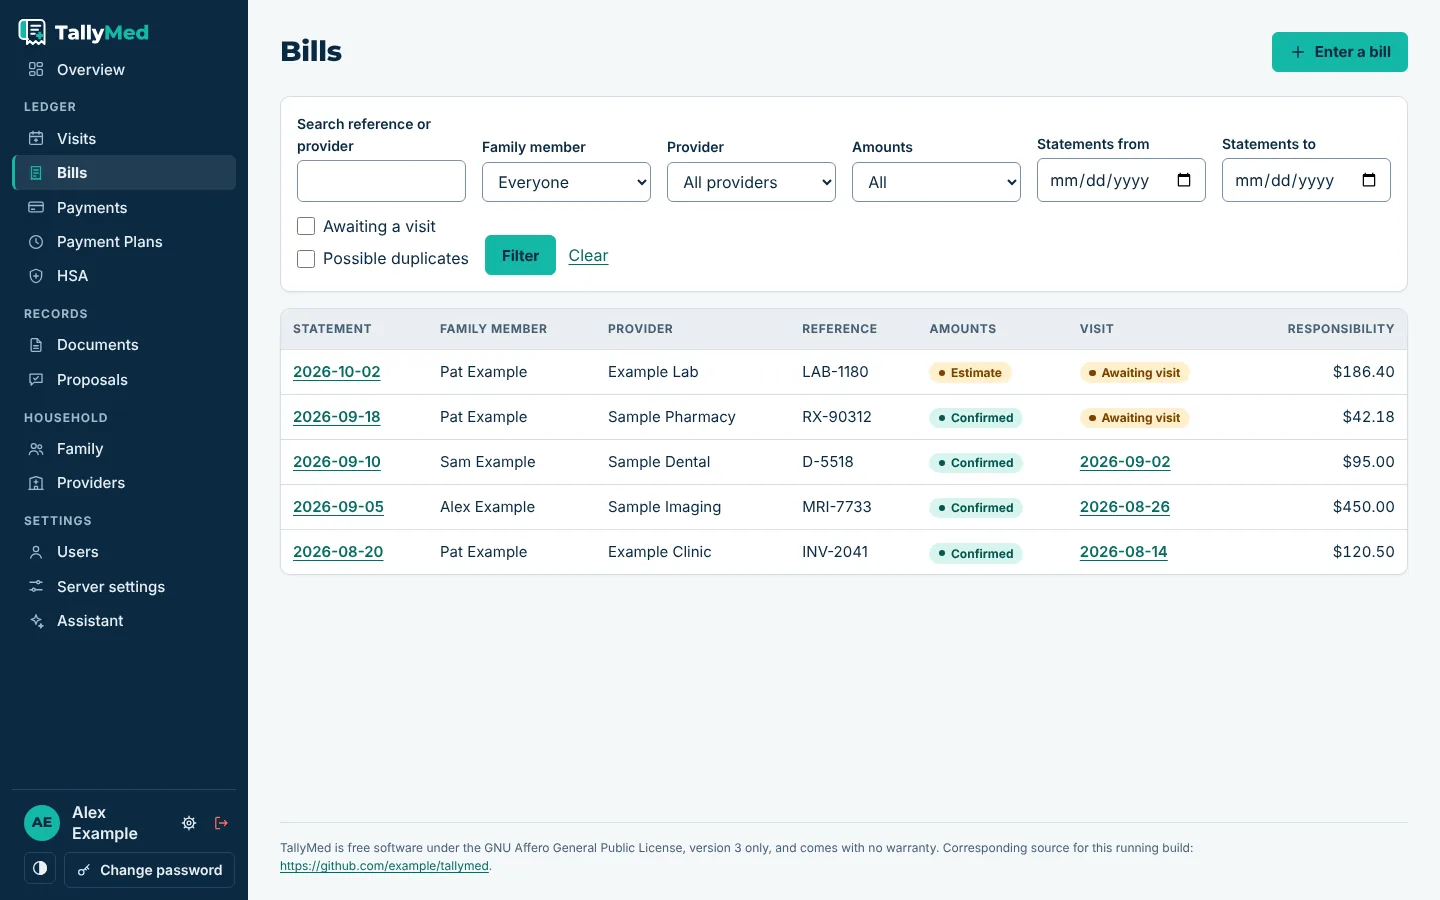
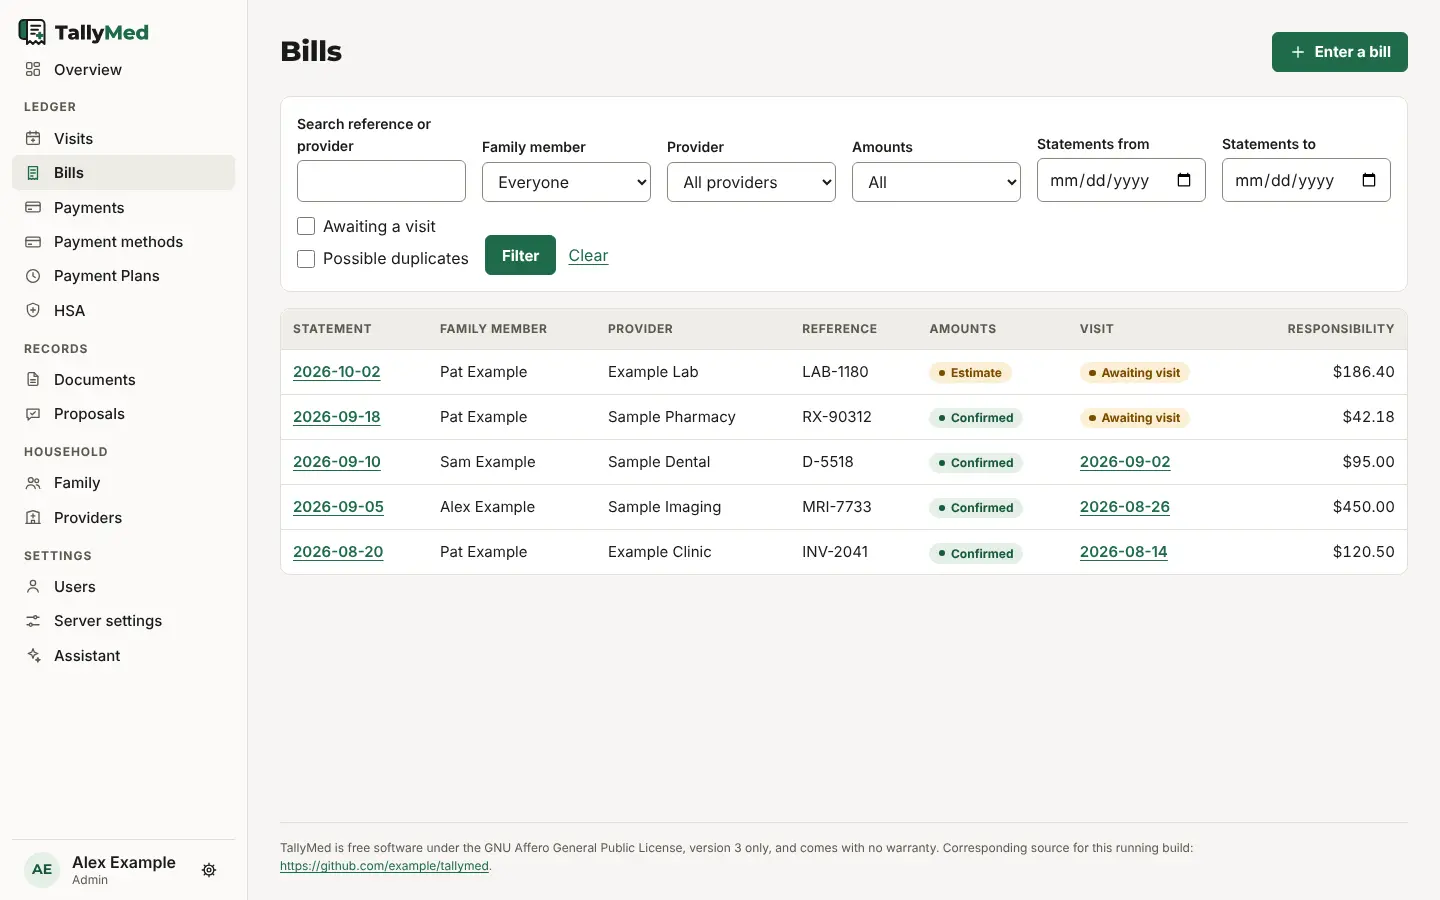
Overview redesign, Needs attention list, quiet sidebar and regenerated site screenshots
- Overview: compact filters, three key figures (open balance with share-paid bar,
  upcoming and overdue installments), Needs attention, then HSA breakdown chart and
  other figures in smaller cards. Uses only figures the services already return.
- NeedsAttention renders only when something needs action: item, reason and a text
  importance level (Critical, Normal, Low).
- Sidebar is a paper or charcoal panel with no coloured edge; cards lose coloured
  top edges.
- capture-site-screenshots.mjs follows the current setup (PIN) and plan forms; the
  eight marketing screenshots and the dashboard alt text are regenerated.

Claude-Session: https://claude.ai/code/session_01FMr4CgbvstSKq3XfQZ7Zma

diff --git a/apps/web/app/(app)/page.tsx b/apps/web/app/(app)/page.tsx
@@ -85,8 +85,8 @@ export default async function Overview({ searchParams }: { searchParams: SearchP
             ? <div className="stack-bar" aria-hidden="true">{hsaParts.map((part) => BigInt(part.cents) > 0n && <span key={part.key} className={`seg seg-${part.key}`} style={{ flexGrow: Number(BigInt(part.cents) * 1000n / hsaTotal) || 1 }} />)}</div>
             : <p className="muted">No HSA amounts in this view yet.</p>}
           <ul className="figure-list">
-            {hsaParts.map((part) => <li key={part.key}><Link href={hsaLink(part.key)}><span className={`swatch seg-${part.key}`} aria-hidden="true" /><span className="fig-label">{part.label}<span className="fig-note">{part.note}</span></span><span className="fig-value"><Money cents={part.cents} /></span></Link></li>)}
-            <li className={BigInt(hsaTotals.needsReviewCents) > 0n ? 'is-warn' : undefined}><Link href={hsaLink('needs_review')}><span className="swatch" aria-hidden="true" /><span className="fig-label">HSA needs review<span className="fig-note">{plural(hsaTotals.needsReviewCount, 'payment above its ceiling', 'payments above their ceiling')}</span></span><span className="fig-value"><Money cents={hsaTotals.needsReviewCents} /></span></Link></li>
+            {hsaParts.map((part) => <li key={part.key}><Link href={hsaLink(part.key)}><span className={`swatch seg-${part.key}`} aria-hidden="true" /><span className="fig-label">{part.label}</span><span className="fig-value"><Money cents={part.cents} /></span><span className="fig-note">{part.note}</span></Link></li>)}
+            <li className={BigInt(hsaTotals.needsReviewCents) > 0n ? 'is-warn' : undefined}><Link href={hsaLink('needs_review')}><span className="swatch" aria-hidden="true" /><span className="fig-label">HSA needs review</span><span className="fig-value"><Money cents={hsaTotals.needsReviewCents} /></span><span className="fig-note">{plural(hsaTotals.needsReviewCount, 'payment above its ceiling', 'payments above their ceiling')}</span></Link></li>
           </ul>
           {hsaQueue.available.length > 0 && <>
             <h3>Ready to claim</h3>
@@ -96,11 +96,11 @@ export default async function Overview({ searchParams }: { searchParams: SearchP
         <section className="card compact" aria-labelledby="sec-more">
           <h2 id="sec-more">Other figures</h2>
           <ul className="figure-list">
-            <li><Link href={filter({ status: 'confirmed' })}><span className="fig-label">Confirmed responsibility<span className="fig-note">{plural(t.confirmedCount, 'bill', 'bills')}, after adjustments</span></span><span className="fig-value"><Money cents={t.confirmedResponsibilityCents} /></span></Link></li>
-            <li><Link href={filter({ status: 'estimate' })}><span className="fig-label">Estimated, not confirmed<span className="fig-note">{plural(t.estimateCount, 'estimate', 'estimates')}, kept separate</span></span><span className="fig-value"><Money cents={t.estimatedResponsibilityCents} /></span></Link></li>
-            <li><Link href="/payments?unapplied=yes"><span className="fig-label">Unapplied cash<span className="fig-note">Paid but not applied to a bill · all family</span></span><span className="fig-value"><Money cents={cash.unappliedCents} /></span></Link></li>
-            {BigInt(t.confirmedCreditCents) > 0n && <li><Link href={filter({ status: 'confirmed' })}><span className="fig-label">Provider credits<span className="fig-note">Payments applied above responsibility</span></span><span className="fig-value"><Money cents={t.confirmedCreditCents} /></span></Link></li>}
-            <li><Link href={filter({ awaitingVisit: 'yes' })}><span className="fig-label">Bills awaiting a visit<span className="fig-note">Not linked to a visit yet</span></span><span className="fig-value num">{t.awaitingVisitCount}</span></Link></li>
+            <li><Link href={filter({ status: 'confirmed' })}><span className="fig-label">Confirmed responsibility</span><span className="fig-value"><Money cents={t.confirmedResponsibilityCents} /></span><span className="fig-note">{plural(t.confirmedCount, 'bill', 'bills')}, after adjustments</span></Link></li>
+            <li><Link href={filter({ status: 'estimate' })}><span className="fig-label">Estimated, not confirmed</span><span className="fig-value"><Money cents={t.estimatedResponsibilityCents} /></span><span className="fig-note">{plural(t.estimateCount, 'estimate', 'estimates')}, kept separate</span></Link></li>
+            <li><Link href="/payments?unapplied=yes"><span className="fig-label">Unapplied cash</span><span className="fig-value"><Money cents={cash.unappliedCents} /></span><span className="fig-note">Paid but not applied to a bill · all family</span></Link></li>
+            {BigInt(t.confirmedCreditCents) > 0n && <li><Link href={filter({ status: 'confirmed' })}><span className="fig-label">Provider credits</span><span className="fig-value"><Money cents={t.confirmedCreditCents} /></span><span className="fig-note">Payments applied above responsibility</span></Link></li>}
+            <li><Link href={filter({ awaitingVisit: 'yes' })}><span className="fig-label">Bills awaiting a visit</span><span className="fig-value num">{t.awaitingVisitCount}</span><span className="fig-note">Not linked to a visit yet</span></Link></li>
           </ul>
         </section>
       </div>

diff --git a/apps/web/app/globals.css b/apps/web/app/globals.css
@@ -254,9 +254,9 @@ ul.rows li > a:first-child { flex: 1 1 12rem; font-weight: 500; }
 .metrics strong { display: block; font-family: var(--font-display); font-size: 1.5rem; font-weight: 700; letter-spacing: -.01em; line-height: 1.25; }
 .metrics strong .num { text-align: left; }
 .metrics .muted { font-size: var(--text-xs); line-height: 1.4; }
-.metrics .card.accent { box-shadow: inset 0 3px 0 var(--accent); }
-.metrics .card.warn { box-shadow: inset 0 3px 0 var(--warn-line); }
-.metrics .card[role="note"] { border-left-width: 1px; box-shadow: inset 0 3px 0 var(--warn-line); }
+.metrics .card.accent { border-color: var(--line-strong); }
+.metrics .card.warn { border-color: var(--warn-line); }
+.metrics .card[role="note"] { border-color: var(--warn-line); }
 
 /* ---------- Overview ---------- */
 /* Three key figures, then the action list (only when something needs a person), then smaller secondary figures. */
@@ -268,8 +268,8 @@ ul.rows li > a:first-child { flex: 1 1 12rem; font-weight: 500; }
 .key-figures { display: grid; grid-template-columns: repeat(auto-fit, minmax(min(100%, 16rem), 1fr)); gap: var(--space-4); margin: var(--space-5) 0 var(--space-5); }
 .key-figure { display: flex; flex-direction: column; gap: var(--space-2); padding: var(--space-5); background: var(--surface); border: 1px solid var(--line); border-radius: var(--radius-lg); color: inherit; text-decoration: none; transition: border-color .15s ease; }
 .key-figure:hover { border-color: var(--line-strong); }
-.key-figure.primary { box-shadow: inset 0 3px 0 var(--accent); }
-.key-figure.warn { box-shadow: inset 0 3px 0 var(--warn-line); }
+.key-figure.primary { border-color: var(--line-strong); }
+.key-figure.warn { border-color: var(--warn-line); }
 .key-label { font-size: var(--text-sm); font-weight: 600; color: var(--fg-muted); }
 .key-figure strong { font-family: var(--font-display); font-size: clamp(1.75rem, 1.4rem + 1.2vw, 2.375rem); font-weight: 700; letter-spacing: -.02em; line-height: 1.1; color: var(--fg); }
 .key-figure strong .num { text-align: left; }
@@ -306,18 +306,18 @@ ul.rows li > a:first-child { flex: 1 1 12rem; font-weight: 500; }
 .card.compact h3 { font-size: var(--text-sm); color: var(--fg-muted); margin: var(--space-4) 0 var(--space-1); }
 .stack-bar { display: flex; gap: 2px; height: .625rem; margin: 0 0 var(--space-3); border-radius: var(--radius-pill); overflow: hidden; background: var(--surface); }
 .stack-bar .seg { flex-basis: 0; min-width: 4px; }
-.seg-available { background: var(--chart-1); }
-.seg-pending { background: var(--chart-2); }
-.seg-received { background: var(--chart-3); }
+.seg-available, .swatch.seg-available { background: var(--chart-1); }
+.seg-pending, .swatch.seg-pending { background: var(--chart-2); }
+.seg-received, .swatch.seg-received { background: var(--chart-3); }
 .card ul.figure-list { margin: 0; }
 .card .figure-list li { padding: 0; border-top: 1px solid var(--line); }
 .card .figure-list li:first-child { border-top: 0; padding-top: 0; }
-.figure-list a { display: flex; align-items: center; gap: var(--space-3); padding: var(--space-2) 0; color: inherit; text-decoration: none; }
+.figure-list a { display: grid; grid-template-columns: auto minmax(0, 1fr) auto; grid-template-areas: "sw label value" "sw note value"; align-items: center; column-gap: 0; padding: var(--space-2) 0; color: inherit; text-decoration: none; }
 .figure-list a:hover .fig-label { text-decoration: underline; text-underline-offset: .18em; }
-.swatch { flex: none; width: .625rem; height: .625rem; border-radius: 2px; background: transparent; }
-.fig-label { flex: 1; min-width: 0; font-size: var(--text-sm); font-weight: 600; }
-.fig-note { display: block; font-size: var(--text-xs); font-weight: 400; color: var(--fg-muted); }
-.fig-value { flex: none; font-family: var(--font-display); font-weight: 600; font-size: var(--text-md); font-variant-numeric: tabular-nums; }
+.swatch { grid-area: sw; width: .625rem; height: .625rem; margin-right: var(--space-3); border-radius: 2px; background: transparent; }
+.fig-label { grid-area: label; min-width: 0; font-size: var(--text-sm); font-weight: 600; }
+.fig-note { grid-area: note; min-width: 0; font-size: var(--text-xs); font-weight: 400; color: var(--fg-muted); }
+.fig-value { grid-area: value; padding-left: var(--space-3); font-family: var(--font-display); font-weight: 600; font-size: var(--text-md); font-variant-numeric: tabular-nums; }
 .figure-list li.is-warn .fig-value { color: var(--warn-fg); }
 .figure-list li.is-warn .swatch { background: var(--warn-line); border-radius: 50%; }
 .card ul.rows.small li { font-size: var(--text-sm); padding-block: var(--space-2); }

diff --git a/apps/marketing/lib/screens.ts b/apps/marketing/lib/screens.ts
@@ -4,8 +4,8 @@ export const screenSize = { width: 1440, height: 900 } as const;
 export const screens = [
   {
     id: 'dashboard', label: 'Dashboard', file: 'overview',
-    caption: 'The overview shows household responsibility, open balances, overdue installments and HSA totals at a glance.',
-    alt: { light: 'TallyMed overview in the light theme: cards for confirmed responsibility, open balance, overdue and upcoming installments and HSA amounts, with a navigation sidebar on the left.', dark: 'TallyMed overview in the dark theme: cards for confirmed responsibility, open balance, overdue and upcoming installments and HSA amounts, with a navigation sidebar on the left.' },
+    caption: 'The overview leads with the open balance and upcoming and overdue installments, and lists only what needs attention, each with a reason and an importance level.',
+    alt: { light: 'TallyMed overview in the light theme: large figures for the open balance with a share-paid bar, upcoming installments and overdue installments, then a Needs attention list marking one overdue installment Critical and three bills Normal, with a navigation sidebar on the left.', dark: 'TallyMed overview in the dark theme: large figures for the open balance with a share-paid bar, upcoming installments and overdue installments, then a Needs attention list marking one overdue installment Critical and three bills Normal, with a navigation sidebar on the left.' },
   },
   {
     id: 'bills', label: 'Bills', file: 'bills',

diff --git a/.project/DECISIONS.md b/.project/DECISIONS.md
@@ -203,7 +203,7 @@ The owner found the overview cluttered and the blue palette with the turquoise s
 - **Palette ("Ink and Forest").** Ink `#1A1A18` and warm neutrals for text and surfaces, one forest green accent (`#1F6B4A` light, sprout `#74C69B` dark), amber and red for status only. Navy, teal and mist are retired everywhere, including the brand SVGs, icons, Open Graph image and the fixed style of the one-time result pages. Every text pair was computed at 4.5:1 or better and every control border at 3:1 or better in both themes before any CSS was written. Starter choice: the owner can ask for a different accent.
 - **Logo.** Same geometry as before (`paths.json` unchanged), recoloured: ink outline with forest spine, cross and "Med" on light; white with sprout on dark; app icon on a forest square with a white cross. Raster icons and the favicon are re-rendered from the SVG.
 - **Sidebar.** A paper panel with a hairline border in light theme and charcoal in dark, so the logo follows the theme. The active item is a soft fill with a bold label and accent icon; there is no coloured edge.
-- **Overview.** Primary figures are confirmed open balance (with a share-paid bar), upcoming installments and overdue installments. Secondary figures (responsibility, estimates, unapplied cash, credits, bills awaiting a visit, HSA amounts) are smaller and to the side, each still linking to its filtered list. One minimal chart: the HSA available, pending and received split, with amounts in a text legend. Charts use only figures the existing services return; numbers are converted to floating point only for drawing, never for displayed amounts. No query, service, route or money rule changed.
+- **Overview.** Primary figures are confirmed open balance (with a share-paid bar), upcoming installments and overdue installments. Secondary figures (responsibility, estimates, unapplied cash, credits, bills awaiting a visit, HSA amounts) are smaller, in two cards below Needs attention, each still linking to its filtered list. One minimal chart: the HSA available, pending and received split, with amounts in a text legend. Charts use only figures the existing services return; numbers are converted to floating point only for drawing, never for displayed amounts. No query, service, route or money rule changed.
 - **Needs attention.** One list replaces the seven always-visible queue cards and is not rendered when empty. Each row has the item, the reason and an importance level written as text. Presentation-only mapping, a starter choice the owner can change: Critical for overdue installments and HSA payments that need review; Normal for unmatched documents, bills awaiting a visit and estimates to confirm; Low for possible duplicates (a hint; TallyMed never merges bills). Available HSA reimbursements are an opportunity, not an action, and moved beside the HSA chart.
 - **Public site.** Same tokens and logo; the navy hero band becomes a light band (charcoal in dark). Copy, roadmap data and metadata are unchanged. Product screenshots and the Open Graph image are regenerated from the redesigned app on fabricated data. The live site changes only with the next `dev` to `main` release merge.
 

diff --git a/docs/design-system.md b/docs/design-system.md
@@ -65,7 +65,7 @@ All are plain classes or small server components; pages stay server-rendered for
 | Page header | Optional `p.crumb` back link, `h1`, then a `p` of meta text and status pills |
 | Card | `.card`; a card with `role="note"` or `role="alert"` becomes an amber or red callout |
 | Metric | `.metrics > .card` with a label `span`, a `strong` value and optional `.muted` help. Add `warn` (amber) to a card that needs attention |
-| Overview | Primary figures (open balance with a paid-share bar, upcoming and overdue installments) in a large row; an HSA breakdown bar with a text legend; secondary figures smaller at the side; then Needs attention. See `app/(app)/page.tsx` |
+| Overview | A compact filter row; three key figures (`.key-figure`: open balance with a share-paid bar, upcoming and overdue installments); Needs attention when anything needs action; then two smaller cards, HSA reimbursements (stacked bar with a text legend carrying every amount) and Other figures. See `app/(app)/page.tsx` |
 | Needs attention | `NeedsAttention` renders only when something needs action: one row per item with the item (a link), the reason, and an importance pill whose text is Critical, Normal or Low. Critical: overdue installments, HSA payments needing review. Normal: unmatched documents, bills awaiting a visit, estimates to confirm. Low: possible duplicates (a hint) |
 | Button | `button` or `a.button` is primary; add `secondary` for outline. Destructive or corrective actions use secondary |
 | Form | `label` then control. `.row` lays filters out in a line. Checkbox labels wrap their input |
